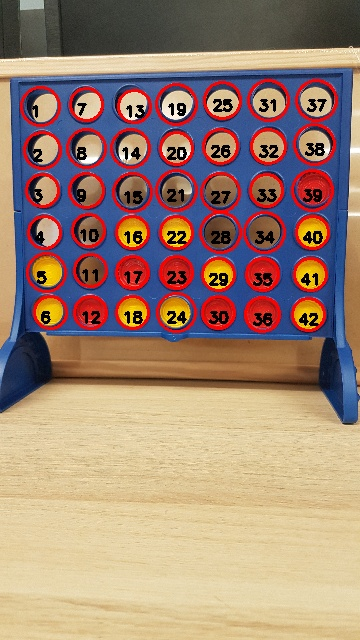
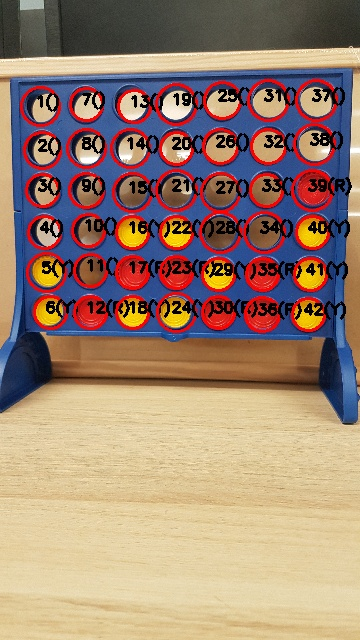
Added colour of counter to image

diff --git a/Tune Hough Circles.py b/Tune Hough Circles.py
@@ -5,7 +5,8 @@ import numpy as np
 
 def ColorNameFromHSV(image,y,x):
     # Create a table of HSV colour values and associated name as a lookup table
-    ColorTable = [[14,23, "Orange"],[25,35, "Yellow"],[55,65,"Green"], [115,125,"Blue"], [175,5,"Red"]    ]
+    #ColorTable = [[14,23, "Orange"],[25,35, "Yellow"],[55,65,"Green"], [115,125,"Blue"], [175,5,"Red"]    ]
+    ColorTable = [[25, 35, "Yellow"], [175, 5, "Red"]]
 
     # get the HSV color
     colorHSV = image[y,x]
@@ -24,6 +25,7 @@ def ColorNameFromHSV(image,y,x):
      # Red is a special condition >175 but < than 5
     if hue >= 175 or hue <= 5:
         return("Red")
+    return("Unknown")
 
 # Read in colour image in BGR colour space
 connect4BGR = cv2.imread("images/connect4 image 5.jpg")
@@ -175,12 +177,16 @@ for board in circleLog:
             if colorName in ["Red", "Yellow"]:
                 #print("Circle %d ColourBGR : %s ColorHSV : %s Colour Name %s" % (circle_count, colorBGR, colorHSV, colorName))
                 print("Circle %d is %s" % (circle_count, colorName))
+                colorLetter = "("+colorName[0]+")"
+            else:
+                colorLetter="() "
 
             #Draw a circle around each detected circle based on it's detected centre coordinates and radius
             # Then label each circle with a number
             cv2.circle(output, (x, y), r, (0, 0, 255), 2)
-            circle_count_string="%s" % circle_count
-            cv2.putText(output, circle_count_string, (x-10,y+10), cv2.FONT_HERSHEY_SIMPLEX, 0.5,  (0,0,0), 2)
+
+            circle_count_string="%s%s" % (circle_count,colorLetter)
+            cv2.putText(output, circle_count_string, (x-5,y), cv2.FONT_HERSHEY_SIMPLEX, 0.5,  (0,0,0), 2)
             circle_count=circle_count+1
 
 
